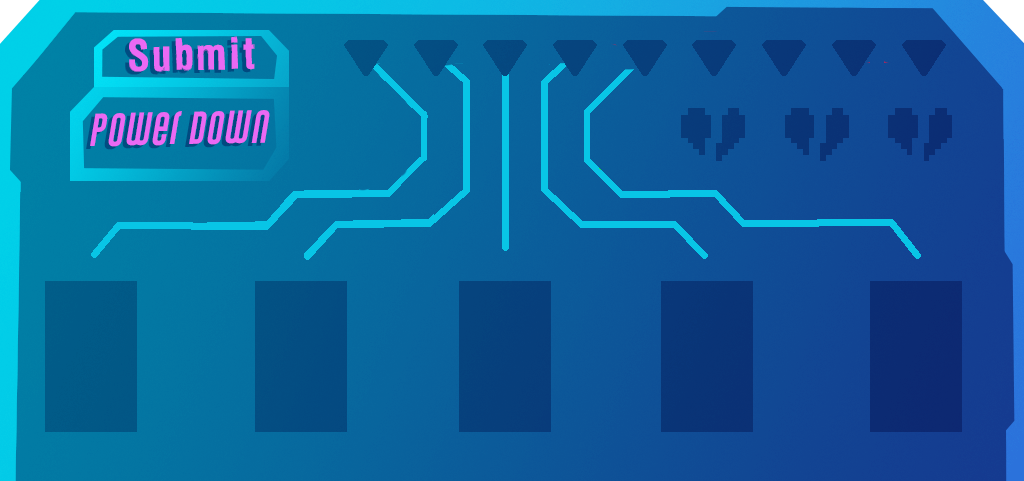
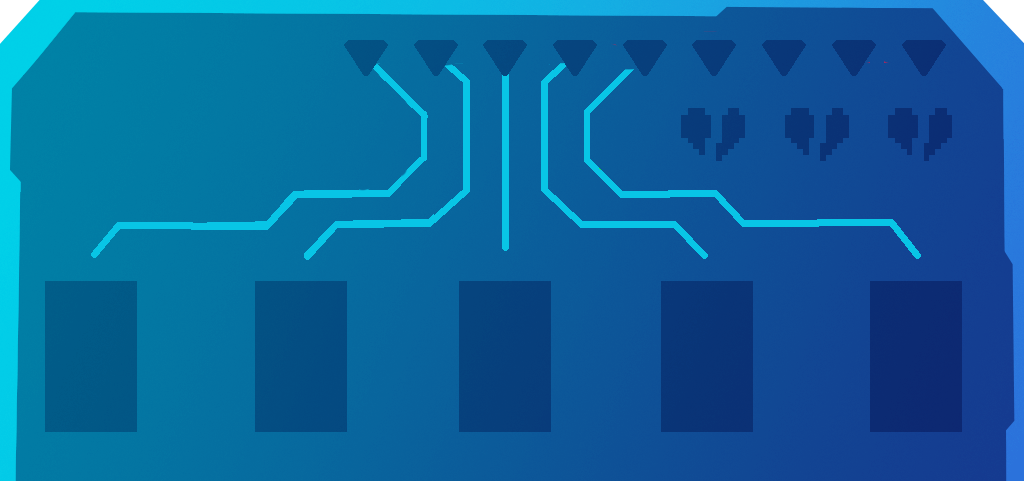
Add powerDown button
Clicking it only prints to terminal for now

Changed region(s): [[0.0625, 0.0624, 0.2812, 0.3742]]

diff --git a/src/main/java/inf112/roborally/game/gui/RegisterDisplay.java b/src/main/java/inf112/roborally/game/gui/RegisterDisplay.java
@@ -5,6 +5,7 @@ import com.badlogic.gdx.graphics.g2d.TextureRegion;
 import com.badlogic.gdx.scenes.scene2d.Group;
 import com.badlogic.gdx.scenes.scene2d.InputEvent;
 import com.badlogic.gdx.scenes.scene2d.ui.Image;
+import com.badlogic.gdx.scenes.scene2d.ui.ImageButton;
 import com.badlogic.gdx.scenes.scene2d.ui.ImageTextButton;
 import com.badlogic.gdx.scenes.scene2d.utils.ClickListener;
 import com.badlogic.gdx.scenes.scene2d.utils.TextureRegionDrawable;
@@ -52,6 +53,20 @@ public class RegisterDisplay {
         addWires();
         addLockTokens(lockGui); // Locks needs to be update on top of the cards
 
+        addPowerDown();
+    }
+
+    private void addPowerDown() {
+        ImageButton powerDown = new ImageButton(new TextureRegionDrawable(new Texture("assets/cards/powerDown.png")));
+        powerDown.setSize(powerDown.getWidth() * scale, powerDown.getHeight() * scale);
+        powerDown.setPosition(programBoard.getX() + 180 * scale, 370 * scale, Align.center);
+        powerDown.addListener(new ClickListener() {
+            @Override
+            public void clicked(InputEvent event, float x, float y) {
+                System.out.println(player.getName() + " powers down!");
+            }
+        });
+        registerGui.addActor(powerDown);
     }
 
     private void addProgramBoard() {
@@ -119,6 +134,7 @@ public class RegisterDisplay {
             lockGui.addActor(lockImage);
         }
     }
+
     public void update() {
         updateWires();
         updateLocks();
@@ -150,10 +166,10 @@ public class RegisterDisplay {
     }
 
 
-    public void drawCardsInProgramRegister(final Hud hud){
+    public void drawCardsInProgramRegister(final Hud hud) {
         for (int i = 0; i < ProgramRegisters.NUMBER_OF_REGISTERS; i++) {
             ProgramCard card = player.getRegisters().getCard(i);
-            if(card != null) {
+            if (card != null) {
                 card.setUpSkin();
                 ImageTextButton cardInRegisterButton = new ProgramCardButton(card);
                 cardInRegisterButton.setTransform(true);
@@ -165,7 +181,7 @@ public class RegisterDisplay {
                 cardInRegisterButton.addListener(new ClickListener() {
                     @Override
                     public void clicked(InputEvent event, float x, float y) {
-                        if(!registers.isLocked(index)) {
+                        if (!registers.isLocked(index)) {
                             registers.returnCard(player, index);
                             hud.clearAllCards();
                             hud.clearAllCards();
